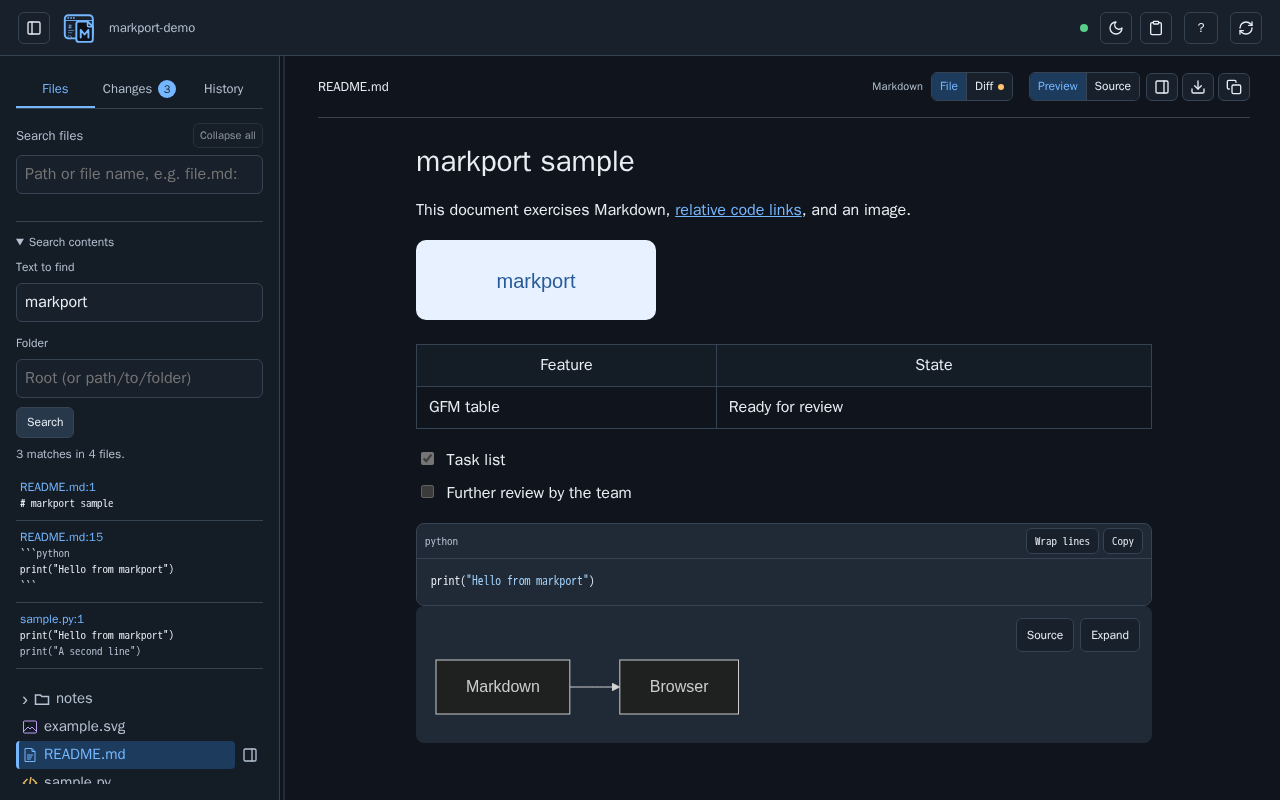
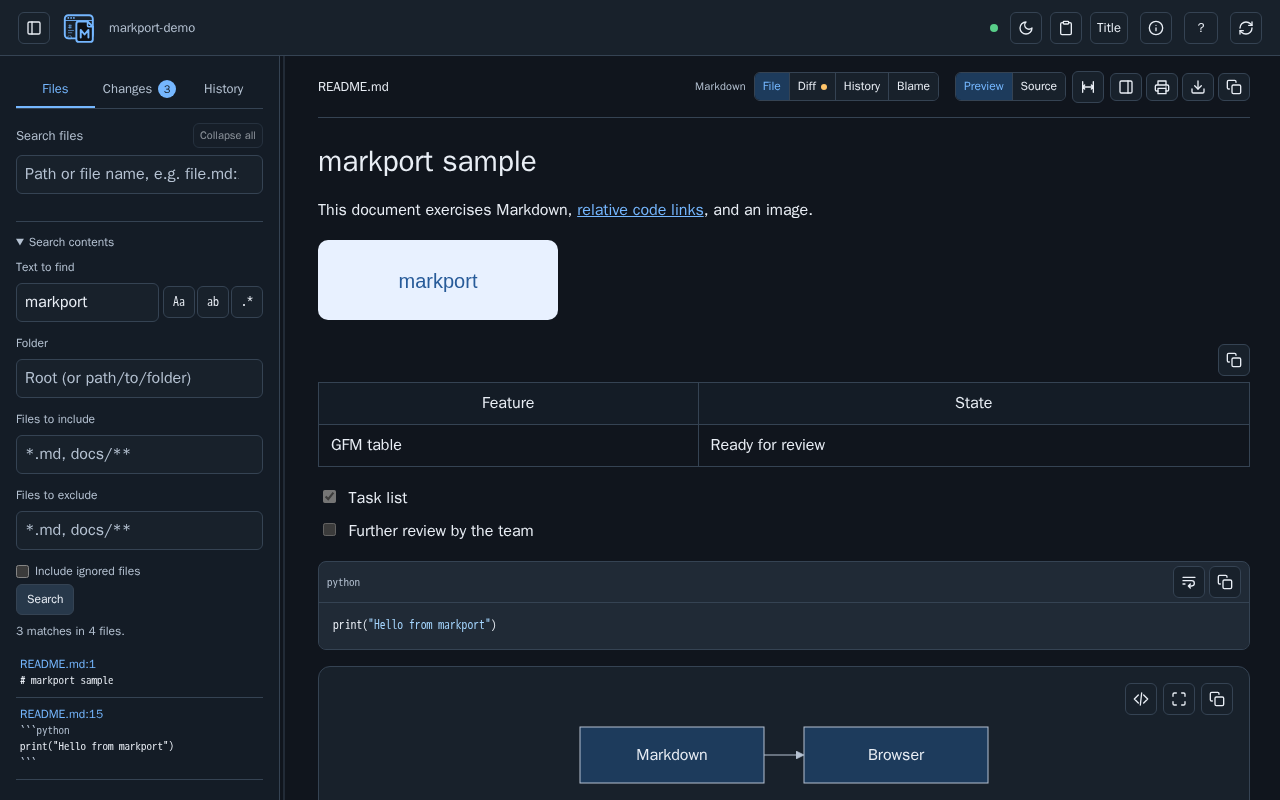
feat(web): add content search options

diff --git a/web/src/contentSearch.ts b/web/src/contentSearch.ts
@@ -1,15 +1,48 @@
 type Match = { path: string; line: number; before: string; text: string; after: string };
-type SearchReply = { matches: Match[]; filesScanned: number; bytesRead: number; limit?: 'files' | 'entries' | 'bytes' | 'matches' };
+type SearchReply = { matches: Match[]; filesScanned: number; bytesRead: number; ignoredSkipped: number; limit?: 'files' | 'entries' | 'bytes' | 'matches' | 'timeout' };
+
+type SearchOptions = { caseSensitive: boolean; wholeWord: boolean; regex: boolean; include: string; exclude: string; ignored: boolean };
+const storageKey = 'markport-content-search-options';
+const defaultOptions: SearchOptions = { caseSensitive: false, wholeWord: false, regex: false, include: '', exclude: '', ignored: false };
+let memoryOptions = { ...defaultOptions };
+
+function loadOptions(): SearchOptions {
+  try {
+    const saved = JSON.parse(localStorage.getItem(storageKey) ?? '{}') as Partial<SearchOptions> | null;
+    const options = { ...defaultOptions };
+    if (saved && typeof saved === 'object') {
+      for (const key of ['caseSensitive', 'wholeWord', 'regex', 'ignored'] as const) if (typeof saved[key] === 'boolean') options[key] = saved[key];
+      for (const key of ['include', 'exclude'] as const) if (typeof saved[key] === 'string') options[key] = saved[key];
+    }
+    return options;
+  } catch { return { ...memoryOptions }; }
+}
 
 export function initContentSearch(container: HTMLElement, navigate: (url: string) => void): void {
   const summary = document.createElement('summary');
   summary.textContent = 'Search contents';
   const form = document.createElement('form');
   form.className = 'content-search-form';
-  form.innerHTML = '<label for="content-query">Text to find</label><input id="content-query" type="search" required maxlength="200" placeholder="Text to find"><label for="content-folder">Folder</label><input id="content-folder" type="text" placeholder="Root (or path/to/folder)"><div class="content-search-actions"><button type="submit">Search</button><button type="button" id="content-cancel" hidden>Cancel</button></div>';
+  form.innerHTML = '<label for="content-query">Text to find</label><div class="content-query-row"><input id="content-query" type="search" required maxlength="200" placeholder="Text to find"><div class="content-search-toggles" role="group" aria-label="Search options"><button type="button" class="tool-icon" id="content-case" aria-label="Match case" title="Match case">Aa</button><button type="button" class="tool-icon" id="content-word" aria-label="Match whole word" title="Match whole word">ab</button><button type="button" class="tool-icon" id="content-regex" aria-label="Use regular expression" title="Use regular expression">.*</button></div></div><label for="content-folder">Folder</label><input id="content-folder" type="text" placeholder="Root (or path/to/folder)"><label for="content-include">Files to include</label><input id="content-include" type="text" placeholder="*.md, docs/**"><label for="content-exclude">Files to exclude</label><input id="content-exclude" type="text" placeholder="*.md, docs/**"><label class="content-search-ignored"><input id="content-ignored" type="checkbox">Include ignored files</label><div class="content-search-actions"><button type="submit">Search</button><button type="button" id="content-cancel" hidden>Cancel</button></div>';
   const query = form.querySelector<HTMLInputElement>('#content-query')!;
   const folder = form.querySelector<HTMLInputElement>('#content-folder')!;
   const cancel = form.querySelector<HTMLButtonElement>('#content-cancel')!;
+  const options = loadOptions();
+  const include = form.querySelector<HTMLInputElement>('#content-include')!;
+  const exclude = form.querySelector<HTMLInputElement>('#content-exclude')!;
+  const ignored = form.querySelector<HTMLInputElement>('#content-ignored')!;
+  include.value = options.include; exclude.value = options.exclude; ignored.checked = options.ignored;
+  function saveOptions(): void {
+    options.include = include.value; options.exclude = exclude.value; options.ignored = ignored.checked;
+    memoryOptions = { ...options };
+    try { localStorage.setItem(storageKey, JSON.stringify(options)); } catch { /* Keep this tab's options in memory. */ }
+  }
+  for (const [key, id] of [['caseSensitive', 'content-case'], ['wholeWord', 'content-word'], ['regex', 'content-regex']] as const) {
+    const button = form.querySelector<HTMLButtonElement>(`#${id}`)!;
+    button.setAttribute('aria-pressed', String(options[key]));
+    button.addEventListener('click', () => { options[key] = !options[key]; button.setAttribute('aria-pressed', String(options[key])); saveOptions(); });
+  }
+  include.addEventListener('input', saveOptions); exclude.addEventListener('input', saveOptions); ignored.addEventListener('change', saveOptions);
   const status = document.createElement('p'); status.className = 'content-search-status'; status.setAttribute('role', 'status');
   const results = document.createElement('nav'); results.className = 'content-search-results'; results.setAttribute('aria-label', 'Content search results');
   container.append(summary, form, status, results);
@@ -41,17 +74,25 @@ export function initContentSearch(container: HTMLElement, navigate: (url: string
     cancel.hidden = false;
     form.querySelector<HTMLButtonElement>('button[type="submit"]')!.disabled = true;
     const params = new URLSearchParams({ q: term, folder: folder.value.trim() });
+    saveOptions();
+    if (options.caseSensitive) params.set('case', '1');
+    if (options.wholeWord) params.set('word', '1');
+    if (options.regex) params.set('regex', '1');
+    if (options.ignored) params.set('ignored', '1');
+    if (options.include.trim()) params.set('include', options.include.trim());
+    if (options.exclude.trim()) params.set('exclude', options.exclude.trim());
     void fetch(`/api/content-search?${params}`, { cache: 'no-store', signal: controller.signal })
       .then(async (response) => {
-        const body = await response.json() as SearchReply & { error?: string };
-        if (!response.ok) throw new Error(body.error === 'invalid_path' ? 'Enter a valid folder path inside the browsing root.' : body.error === 'not_found' ? 'Folder not found.' : 'Search failed. Please try again.');
+        const body = await response.json() as SearchReply & { error?: string; message?: string };
+        if (!response.ok) throw new Error(body.error === 'invalid_query' ? body.message ?? 'Invalid search query.' : body.error === 'invalid_path' ? 'Enter a valid folder path inside the browsing root.' : body.error === 'not_found' ? 'Folder not found.' : 'Search failed. Please try again.');
         return body;
       })
       .then((body) => {
         if (current !== version) return;
         const count = body.matches.length;
-        const limit = body.limit ? ` Partial results: ${body.limit === 'matches' ? 'match' : body.limit === 'files' ? 'file' : body.limit === 'entries' ? 'directory entry' : 'read size'} limit reached.` : '';
+        const limit = body.limit === 'timeout' ? ' Search timed out; results are partial.' : body.limit ? ` Partial results: ${body.limit === 'matches' ? 'match' : body.limit === 'files' ? 'file' : body.limit === 'entries' ? 'directory entry' : 'read size'} limit reached.` : '';
         status.textContent = count ? `${count} ${count === 1 ? 'match' : 'matches'} in ${body.filesScanned} files.${limit}` : `No results in ${body.filesScanned} files.${limit}`;
+        if (body.ignoredSkipped > 0) status.textContent += ` ${body.ignoredSkipped} ignored files skipped.`;
         const list = document.createElement('ul');
         for (const match of body.matches) {
           const item = document.createElement('li');

diff --git a/web/tests/contentSearch.test.ts b/web/tests/contentSearch.test.ts
@@ -1,0 +1,70 @@
+// @vitest-environment jsdom
+import { afterEach, beforeEach, expect, it, vi } from 'vitest';
+
+beforeEach(() => { vi.resetModules(); localStorage.clear(); document.body.replaceChildren(); });
+afterEach(() => { vi.unstubAllGlobals(); vi.restoreAllMocks(); });
+
+async function mount() {
+  const container = document.createElement('details'); document.body.append(container);
+  const navigate = vi.fn();
+  const { initContentSearch } = await import('../src/contentSearch');
+  initContentSearch(container, navigate);
+  return { container, navigate };
+}
+function input(container: HTMLElement, id: string, value: string): void {
+  const field = container.querySelector<HTMLInputElement>(`#content-${id}`)!;
+  field.value = value; field.dispatchEvent(new Event('input'));
+}
+const response = (body: unknown, ok = true) => ({ ok, json: async () => body }) as Response;
+
+it('sends all options and navigates to a matching source line', async () => {
+  const fetch = vi.fn().mockResolvedValue(response({
+    matches: [{ path: 'docs/a.md', line: 3, before: 'before', text: 'match', after: 'after' }],
+    filesScanned: 2, ignoredSkipped: 4,
+  }));
+  vi.stubGlobal('fetch', fetch);
+  const { container, navigate } = await mount();
+  input(container, 'query', 'bug-\\d+'); input(container, 'folder', 'docs');
+  input(container, 'include', '*.md, docs/**'); input(container, 'exclude', '*.lock');
+  for (const id of ['case', 'word', 'regex']) container.querySelector<HTMLButtonElement>(`#content-${id}`)!.click();
+  container.querySelector<HTMLInputElement>('#content-ignored')!.click();
+  container.querySelector('form')!.dispatchEvent(new Event('submit', { cancelable: true }));
+  await vi.waitFor(() => expect(container.querySelector('.content-search-results a')).not.toBeNull());
+  const params = new URL(fetch.mock.calls[0][0], location.href).searchParams;
+  expect(Object.fromEntries(params)).toEqual({ q: 'bug-\\d+', folder: 'docs', case: '1', word: '1', regex: '1', ignored: '1', include: '*.md, docs/**', exclude: '*.lock' });
+  expect(container.querySelector('[role=status]')?.textContent).toContain('4 ignored files skipped');
+  container.querySelector<HTMLAnchorElement>('.content-search-results a')!.click();
+  expect(navigate).toHaveBeenCalledOnce();
+  const target = new URL(navigate.mock.calls[0][0]);
+  expect(target.searchParams.get('source')).toBe('1'); expect(target.hash).toBe('#L3');
+});
+
+it('persists and restores options with accessible toggle state', async () => {
+  const { container } = await mount();
+  container.querySelector<HTMLButtonElement>('#content-case')!.click();
+  input(container, 'include', '*.go');
+  const { container: restored } = await mount();
+  expect(restored.querySelector('#content-case')?.getAttribute('aria-pressed')).toBe('true');
+  expect(restored.querySelector('#content-word')?.getAttribute('aria-pressed')).toBe('false');
+  expect(restored.querySelector<HTMLInputElement>('#content-include')?.value).toBe('*.go');
+  expect(JSON.parse(localStorage.getItem('markport-content-search-options')!)).toMatchObject({ caseSensitive: true, include: '*.go' });
+});
+
+it('retains options in the tab when storage is unavailable', async () => {
+  vi.spyOn(Storage.prototype, 'getItem').mockImplementation(() => { throw new Error('unavailable'); });
+  vi.spyOn(Storage.prototype, 'setItem').mockImplementation(() => { throw new Error('unavailable'); });
+  const { container } = await mount();
+  container.querySelector<HTMLButtonElement>('#content-regex')!.click(); input(container, 'exclude', '*.log');
+  const { container: restored } = await mount();
+  expect(restored.querySelector('#content-regex')?.getAttribute('aria-pressed')).toBe('true');
+  expect(restored.querySelector<HTMLInputElement>('#content-exclude')?.value).toBe('*.log');
+});
+
+it('displays invalid-query messages and restores the submit button', async () => {
+  vi.stubGlobal('fetch', vi.fn().mockResolvedValue(response({ error: 'invalid_query', message: 'error parsing regexp: missing closing ]' }, false)));
+  const { container } = await mount(); input(container, 'query', '[');
+  container.querySelector<HTMLButtonElement>('#content-regex')!.click();
+  container.querySelector('form')!.dispatchEvent(new Event('submit', { cancelable: true }));
+  await vi.waitFor(() => expect(container.querySelector('[role=status]')?.textContent).toContain('missing closing ]'));
+  expect(container.querySelector<HTMLButtonElement>('button[type=submit]')?.disabled).toBe(false);
+});

diff --git a/web/src/style.css b/web/src/style.css
@@ -1,6 +1,8 @@
 @import './themes.css';
 @import './chroma.css';
 
+.content-query-row{display:flex;align-items:center;gap:4px}.content-query-row input{min-width:0;flex:1}.content-search-toggles{display:flex;gap:2px}.content-search-toggles button{font:12px var(--mono)}.content-search-form .content-search-ignored{display:flex;align-items:center;gap:6px;font-size:12px}.content-search-ignored input{width:auto;margin:0}
+
 #print-view{width:min(1000px,calc(100vw - 24px));height:calc(100dvh - 32px);max-width:none;max-height:none;padding:0;border:1px solid var(--border);border-radius:8px;background:var(--surface);color:var(--text)}
 #print-view[open]{display:flex;flex-direction:column}
 #print-view::backdrop{background:#0008}
